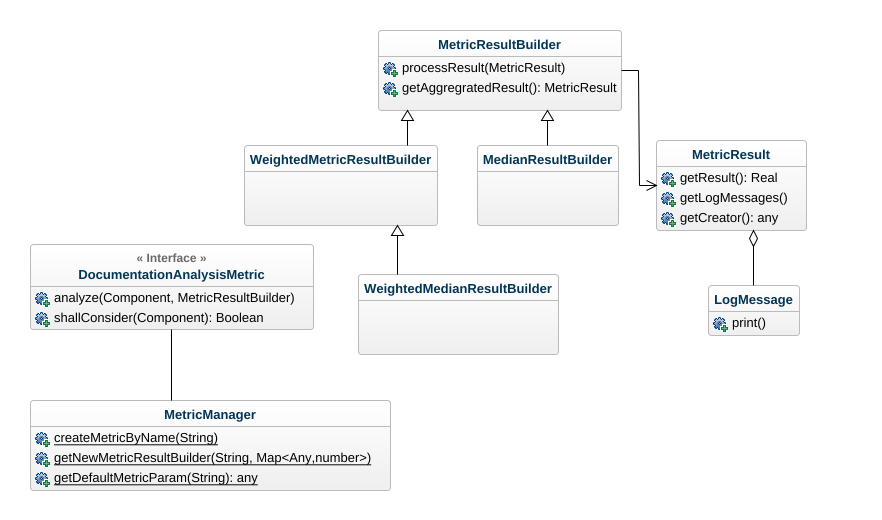
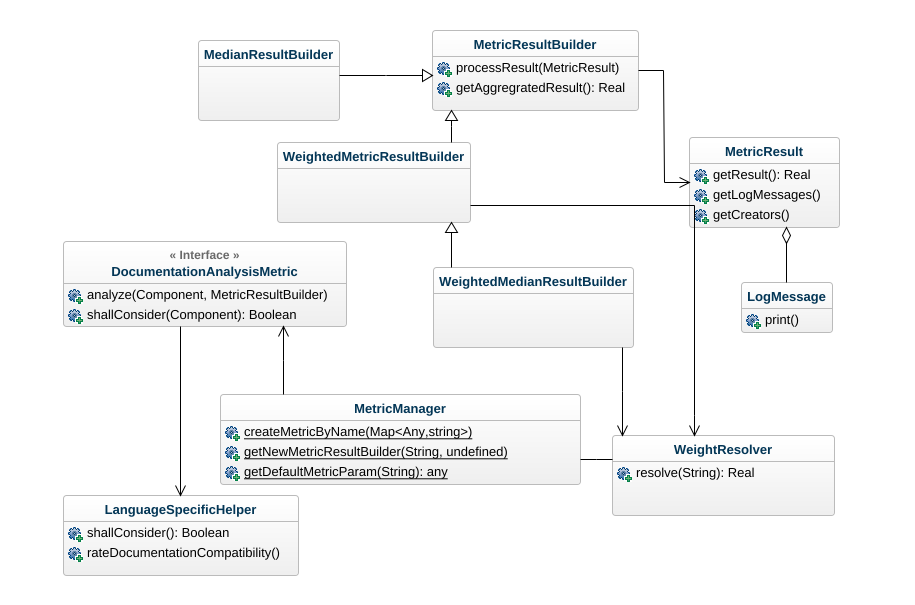
small fixes, better uml diagram, and info about parsing special elements

diff --git a/bachelorarbeit/Evaluation/eval.tex b/bachelorarbeit/Evaluation/eval.tex
@@ -150,7 +150,7 @@ Insgesamt zeigt die Evaluation der Qualität, dass der \doceval eine hohe Abdeck
 Während der Evaluation wurde geprüft, warum einige Fehler nicht vom \doceval gefunden wurden. In einigen Fällen waren dies einfache Fehler, die bereits behoben wurden, sodass dadurch die Trefferrate erhöht wurde. In anderen Fällen gab es größere strukturelle Probleme, die nicht mehr leicht behebbar sind. Einige dieser Fehler werden im Folgenden präsentiert. 
 \subsubsection{Fehler durch verschiedene Zeilennummerierung}
 
-Einige Fehler sind keine Fehler des \textit{DocEvaluators} an sich, sondern sind in der Methodik der Evaluation begründet. Um gemeinsame Fehler zu finden, müssen die gefundene Fehler pro Tool abgeglichen werden, wozu die Zeilennummer elementar ist. Allerdings gibt es Unterschiede bei der Festlegung der Zeilennummer. Der \doceval verwendet in seiner Logausgabe einen Zeilennummerintervall, der mit Zeile des Bezeichners der Komponente endet und dessen Anfang durch Subtraktion der Anzahl der Zeilen des Dokumentation von letzten Zeile beschrieben wird. Die anderen Tools verwenden die exakte Zeile eines Fehlers. In den meisten Fällen ist dies kein Problem, da diese Zeilennummer von \checkpmd innerhalb des vom \doceval beschriebenen Intervall liegen muss. Listing \ref{lst:multiline_method} zeigt ein Beispiel, wo es problematisch wird.
+Einige Fehler sind keine Fehler des \textit{DocEvaluators} an sich, sondern sind in der Methodik der Evaluation begründet. Um gemeinsame Fehler zu finden, müssen die gefundene Fehler pro Tool abgeglichen werden, wozu die Zeilennummer elementar ist. Allerdings gibt es Unterschiede bei der Festlegung der Zeilennummer. Der \doceval verwendet in seiner Logausgabe einen Zeilennummerintervall, der mit Zeile des Bezeichners der Komponente endet und dessen Anfang durch Subtraktion der Anzahl der Zeilen des Dokumentation von der zeile des Bezeichners wird. Die anderen Tools verwenden die exakte Zeile eines Fehlers. In den meisten Fällen ist dies kein Problem, da diese Zeilennummer von \checkpmd innerhalb des vom \doceval beschriebenen Intervall liegen muss. Listing \ref{lst:multiline_method} zeigt ein Beispiel, wo es problematisch wird.
 
 		\begin{figure}[ht!]
 			\lstinputlisting

diff --git a/bachelorarbeit/Main/konzeption.tex b/bachelorarbeit/Main/konzeption.tex
@@ -30,7 +30,7 @@ minimum width=5cm, text width=6cm-\InnerSep,
 align=justify,
 minimum height=\hoehe
 ] (java) {
-  \hspace*{0.1cm}\textbf{public} \textbf{class} Main\{.\newline 
+  \hspace*{0.1cm}\textbf{public} \textbf{class} Main\{\newline 
      \hspace*{0.5cm}\textbf{private} \textbf{int} test(\textbf{int} a)\{\newline
     \hspace*{0.5cm}\}\newline
 \hspace*{0.1cm}\}
@@ -105,6 +105,8 @@ Neben der hierarchischen Repräsentation der einzelnen Komponenten müssen auch 
  Dieser Aufbau findet sich auch in \textit{Doxygen} \cite{doxygen} oder \textit{Docstring} \cite{docstring}, sodass diese Struktur als Grundlage genommen wird. 
  
  Ein strukturierter Kommentar besteht also aus einer generellen Beschreibung, die auch weggelassen werden kann. Anschließend folgen null bis beliebig viele Tags. Jeder Tag besteht aus einem Typ (z.~B. \enquote{@param},\enquote{@return} oder \enquote{@throws}), einem optionalen Parameter, welcher von einigen Tags benötigt wird und der Beschreibung des Tags. Die Namen der Tags sind generalisiert, dies bedeutet, dass unabhängig von der Programmiersprache der Tag zur Beschreibung eines Parameters immer \enquote{@param} heißen muss. Dies muss bei der Entwicklung eines Parsers beachtet werden. 
+ 
+ Ein strukturierter Kommentar kann ebenfalls spezielle Elemente wie z.~B. \ac{HTML}-Elemente oder Inline-Tags enthalten. Hier werden diese Elemente unverarbeitet gelassen, also unverändert mit dem Rest des Kommentars als Zeichenkette gespeichert. Metriken, die diese Informationen benötigen, müssen diese Elemente also selbstständig extrahieren. Andere Metriken (wie z.~B. die Metriken in Kapitel \ref{chapter:metrics_semantic}) benötigen diese speziellen Elemente nicht, sodass eine einheitliche Schnittstelle, die sowohl die natürliche Sprache als auch die speziellen Elemente berücksichtigt und  zudem relativ programmiersprachenunabhängig sein müsste, viele Herausforderungen mit sich bringt.   
  
  Wird kein strukturierter Kommentar angegeben, so ist liefert der entsprechende Getter \textit{getComment} den Wert \enquote{null} zurück. 
 \section{Konzeption der Metriken}
